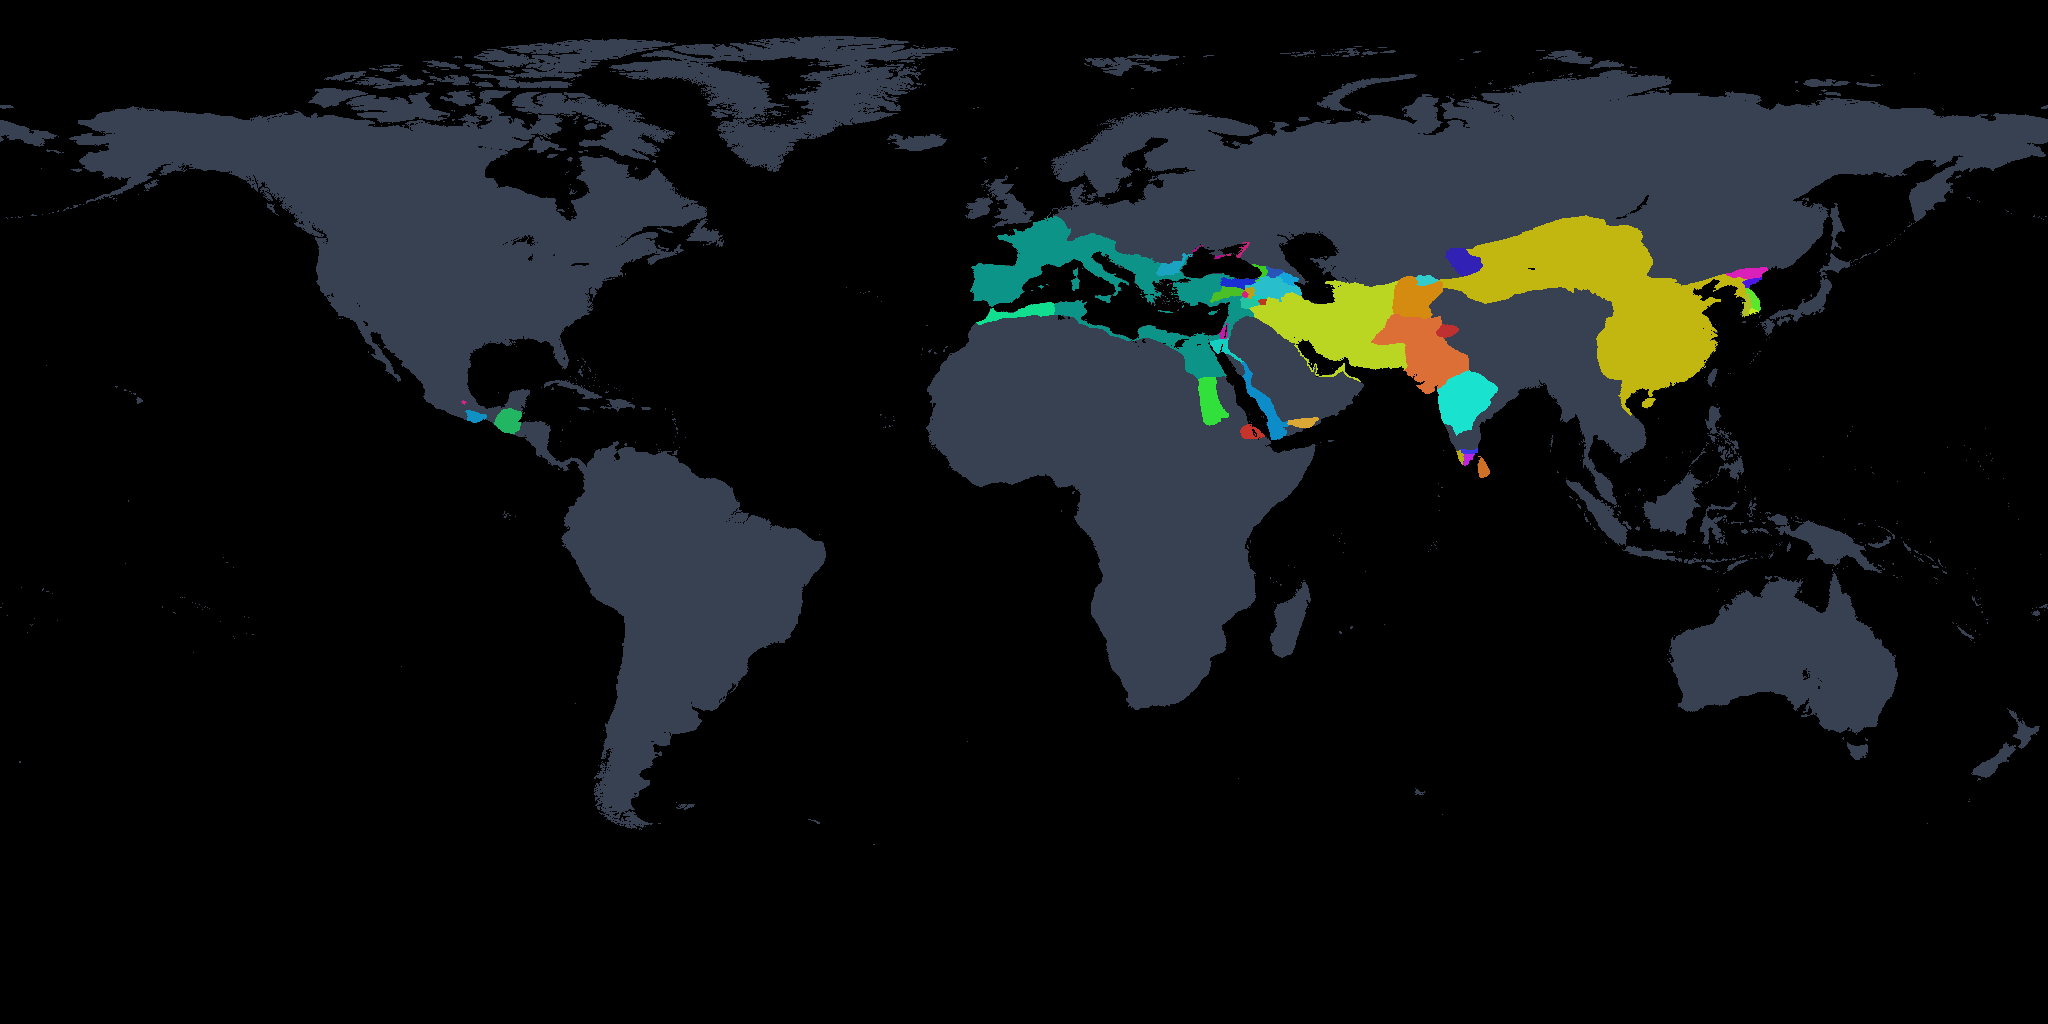
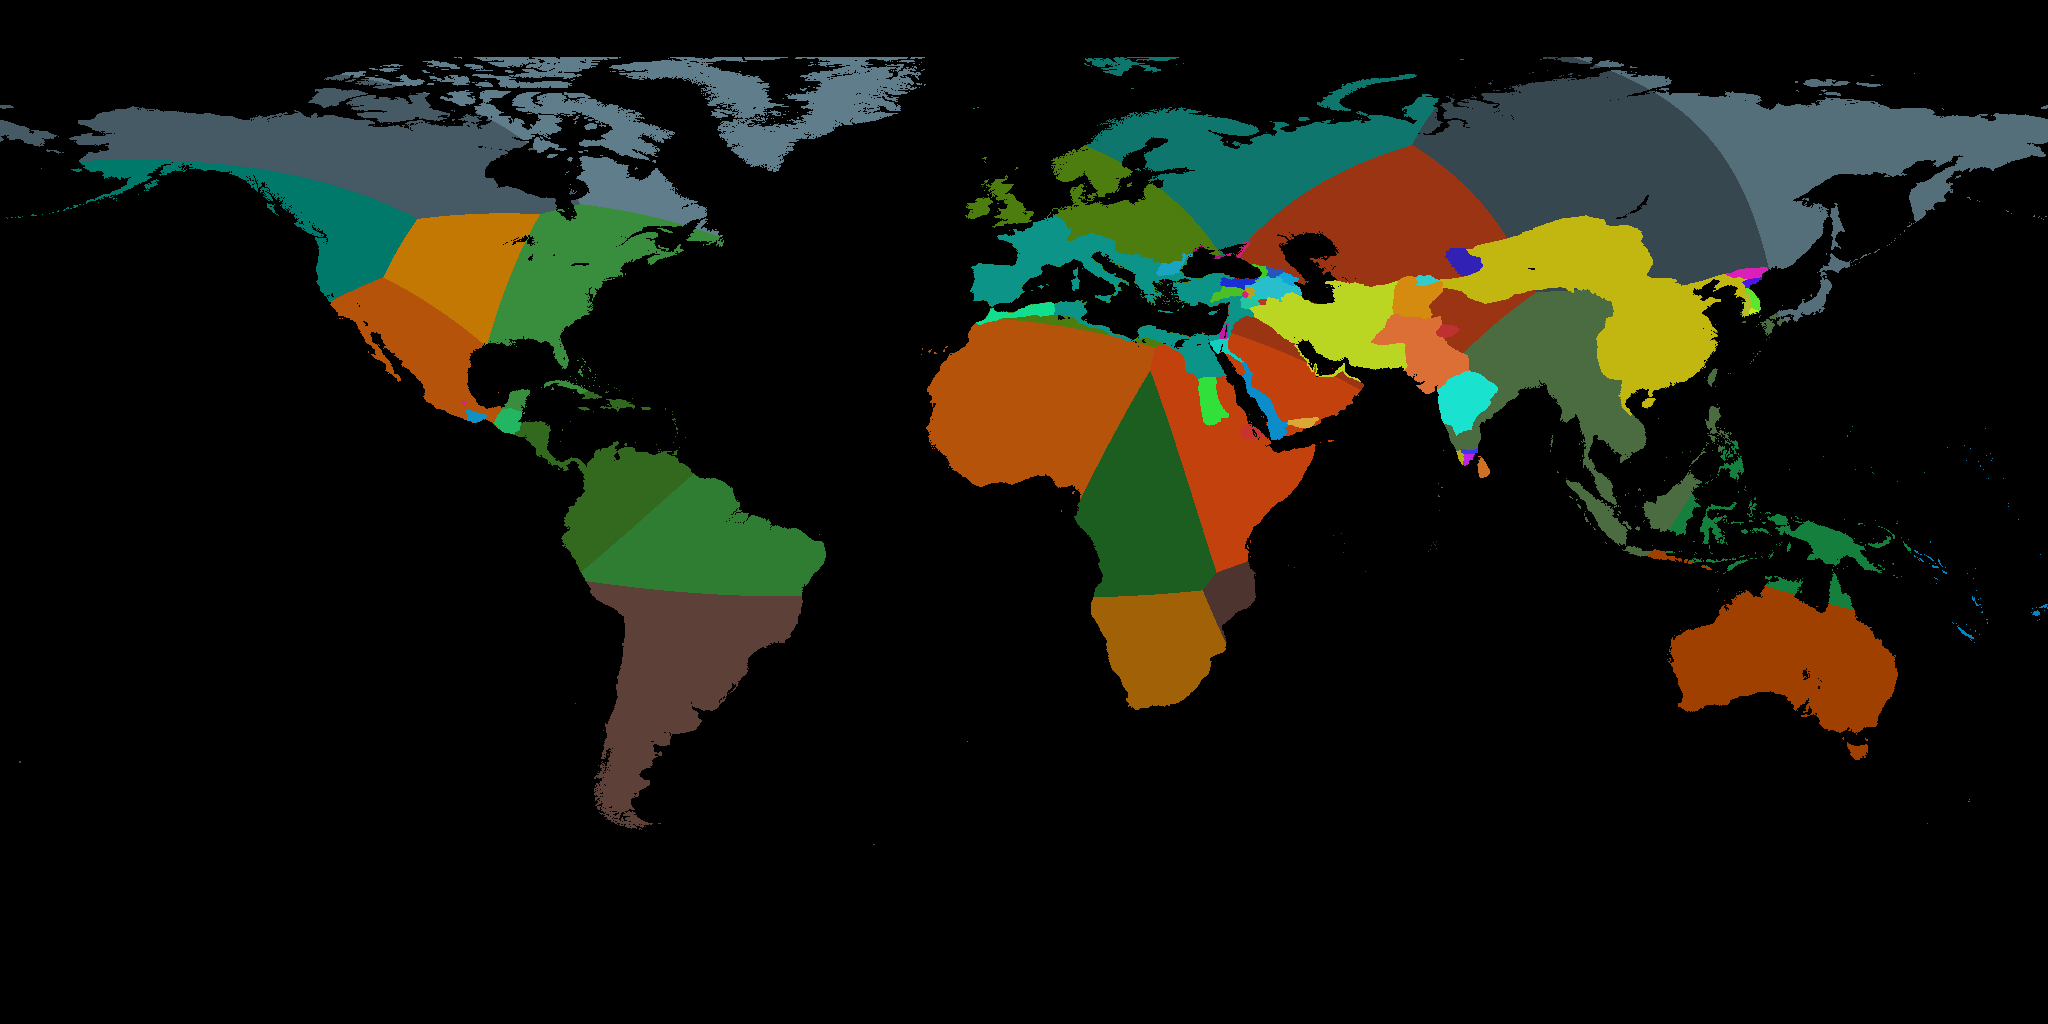
feat(cartography): authentic tribal domain sovereignty, conditional polar masking, and updated Year 0 cultural tensors

diff --git a/src/main/java/org/ether/society/data/CliopatriaPolityVectorReader.java b/src/main/java/org/ether/society/data/CliopatriaPolityVectorReader.java
@@ -77,7 +77,7 @@ public class CliopatriaPolityVectorReader {
         }
         g.dispose();
 
-        // Apply elevation coastline mask and assign neutral slate-gray to stateless/unclaimed land
+        // Apply elevation coastline mask and assign authentic regional tribal domains to stateless/unclaimed land
         if (elevationMask != null) {
             for (int y = 0; y < height; y++) {
                 double lat = 90.0 - (y + 0.5) / height * 180.0;
@@ -86,12 +86,18 @@ public class CliopatriaPolityVectorReader {
                     int mx = Math.clamp(x * elevationMask.getWidth() / width, 0, elevationMask.getWidth() - 1);
                     int my = Math.clamp(y * elevationMask.getHeight() / height, 0, elevationMask.getHeight() - 1);
                     int land = elevationMask.getRaster().getSample(mx, my, 0);
-                    if (land == 0 || lat < -60.0) {
-                        // Ocean or uninhabited Antarctic ice sheet
+                    if (land == 0 || (lat < -60.0 && targetYear < 1900L)) {
+                        // Ocean or uninhabited prehistoric Antarctic ice sheet
                         img.setRGB(x, y, 0x000000);
                     } else if (img.getRGB(x, y) == 0xFF000000 || img.getRGB(x, y) == 0x000000) {
-                        // Unclaimed / stateless territorial frontier -> clean neutral slate-gray
-                        img.setRGB(x, y, 0x374151);
+                        double occWeight = HistoricalMapGenerator.getHomininOccupancyWeight(lon, lat, targetYear);
+                        if (occWeight <= 0.001 && targetYear < 1900L) {
+                            img.setRGB(x, y, 0x000000);
+                        } else {
+                            // Unclaimed / stateless inhabited frontier -> assign authentic regional tribal basin color
+                            int tribalColor = getTribalDomainColor(lon, lat, targetYear);
+                            img.setRGB(x, y, tribalColor);
+                        }
                     }
                 }
             }
@@ -100,6 +106,62 @@ public class CliopatriaPolityVectorReader {
         logger.info("Successfully rasterized {} Seshat ClioPatria authentic vector polities for year {} ({}x{}).",
                 polities.size(), targetYear, width, height);
         return img;
+    }
+
+    /**
+     * Determines the authentic regional tribal / clan domain color for stateless inhabited lands.
+     */
+    public static int getTribalDomainColor(double lon, double lat, long year) {
+        if (lat < -60.0) {
+            return 0x0284C7; // Antarctic Treaty / International Scientific Research Domain (#0284C7 Sky Blue)
+        }
+
+        record TribalDomain(double lon, double lat, int color) {}
+        TribalDomain[] domains = {
+            // Americas
+            new TribalDomain(-60.0, -3.0, 0x2E7D32),    // Amazonian Indigenous Nations (#2E7D32 Forest Green)
+            new TribalDomain(-62.0, -25.0, 0x5D4037),   // Gran Chaco & Pampas (#5D4037 Earth Brown)
+            new TribalDomain(-68.0, 6.0, 0x33691E),     // Orinoco & Caribbean Tribes (#33691E Olive Green)
+            new TribalDomain(-82.0, 38.0, 0x388E3C),    // North American Eastern Woodlands (#388E3C Woodland Green)
+            new TribalDomain(-100.0, 42.0, 0xC27803),   // North American Great Plains (#C27803 Prairie Amber)
+            new TribalDomain(-122.0, 48.0, 0x00796B),   // Pacific Northwest & Salish (#00796B Coastal Teal)
+            new TribalDomain(-110.0, 32.0, 0xB45309),   // Southwest / Aridoamerica (#B45309 Desert Bronze)
+            new TribalDomain(-105.0, 62.0, 0x455A64),   // Subarctic Dene & Athabaskan (#455A64 Taiga Slate)
+            new TribalDomain(-70.0, 70.0, 0x607D8B),    // Arctic Inuit / Thule Domain (#607D8B Arctic Slate)
+
+            // Africa
+            new TribalDomain(0.0, 10.0, 0xB45309),      // West African Savanna / Voltaic (#B45309 Savanna Ochre)
+            new TribalDomain(22.0, -1.0, 0x1B5E20),     // Congo Equatorial Forest Clans (#1B5E20 Jungle Dark Green)
+            new TribalDomain(38.0, 4.0, 0xC2410C),      // East African Pastoralists (#C2410C Terracotta)
+            new TribalDomain(24.0, -28.0, 0xA16207),    // Southern African Khoisan / San (#A16207 Kalahari Ochre)
+            new TribalDomain(47.0, -19.0, 0x4E342E),    // Malagasy Indigenous Domain (#4E342E Malagasy Brown)
+
+            // Eurasia & Siberia
+            new TribalDomain(10.0, 56.0, 0x4D7C0F),     // Northern European Germanic/Celtic Forest Clans (#4D7C0F Moss Green)
+            new TribalDomain(30.0, 64.0, 0x0F766E),     // Boreal Finno-Ugric & Samoyed (#0F766E Pine Teal)
+            new TribalDomain(65.0, 48.0, 0x9A3412),     // Eurasian Steppe Nomads (#9A3412 Steppe Rust)
+            new TribalDomain(100.0, 58.0, 0x37474F),    // Siberian Taiga & Evenki (#37474F Siberian Charcoal)
+            new TribalDomain(150.0, 65.0, 0x546E7A),    // Chukchi & Koryak Paleo-Siberian (#546E7A Tundra Blue-Gray)
+            new TribalDomain(100.0, 20.0, 0x4B6B40),    // Southeast Asian Zomia Highlands (#4B6B40 Highland Olive)
+
+            // Oceania & Australasia
+            new TribalDomain(134.0, -25.0, 0xA04000),   // Australian Aboriginal Nations (#A04000 Red Ochre)
+            new TribalDomain(140.0, -5.0, 0x15803D),    // Papuan Highland Clans (#15803D Papuan Emerald)
+            new TribalDomain(170.0, -15.0, 0x0284C7)    // Polynesian Oceanic Domain (#0284C7 Pacific Cyan)
+        };
+
+        double minDistSq = Double.MAX_VALUE;
+        int bestColor = 0x4B5563;
+        for (TribalDomain td : domains) {
+            double dLat = lat - td.lat;
+            double dLon = (lon - td.lon) * Math.cos(Math.toRadians((lat + td.lat) * 0.5));
+            double d2 = dLat * dLat + dLon * dLon;
+            if (d2 < minDistSq) {
+                minDistSq = d2;
+                bestColor = td.color;
+            }
+        }
+        return bestColor;
     }
 
     /**

diff --git a/src/main/java/org/ether/society/data/HistoricalMapGenerator.java b/src/main/java/org/ether/society/data/HistoricalMapGenerator.java
@@ -2047,8 +2047,8 @@ public class HistoricalMapGenerator {
                 mx = Math.clamp(mx, 0, (mask != null ? mask.getWidth() : w) - 1);
                 my = Math.clamp(my, 0, (mask != null ? mask.getHeight() : h) - 1);
                 int land = (mask != null) ? mask.getRaster().getSample(mx, my, 0) : 255;
-                if (land == 0 || lat < -60.0) {
-                    // Ocean pixel or uninhabited Antarctic ice cap -> strictly pure black
+                if (land == 0) {
+                    // Ocean pixel -> strictly pure black
                     out.setRGB(x, y, 0x000000);
                 } else {
                     out.setRGB(x, y, src.getRGB(x, y));
@@ -2480,20 +2480,27 @@ public class HistoricalMapGenerator {
         }
 
         // Orographic cost-distance propagation with finite sovereign reach limit (38.0)
-        // Land outside state logistical projection capacity remains neutral slate-gray #374151
         List<OrographicGlottologPropagator.CulturalSeed> sovSeeds = new ArrayList<>();
         for (double[] ec : empireCores) {
             sovSeeds.add(new OrographicGlottologPropagator.CulturalSeed(ec[0], ec[1], (int) ec[2], ec[3] / 18.0, "Polity"));
         }
         BufferedImage sovImg = OrographicGlottologPropagator.propagateCulturalSeeds(sovSeeds, WIDTH, HEIGHT, mask, 38.0f);
-        // Apply hominin occupancy: unpopulated land or Antarctica -> black
+        // Apply hominin occupancy and assign authentic regional tribal domains outside imperial reach
         for (int y = 0; y < HEIGHT; y++) {
             double lat = 90.0 - (y + 0.5) / HEIGHT * 180.0;
             for (int x = 0; x < WIDTH; x++) {
                 double lon = -180.0 + (x + 0.5) / WIDTH * 360.0;
                 double occWeight = getHomininOccupancyWeight(lon, lat, year);
-                if (lat < -60.0 || occWeight <= 0.001) {
+                if (lat < -60.0 && year < 1900L) {
                     sovImg.setRGB(x, y, 0x000000);
+                } else if (occWeight <= 0.001 && year < 1900L) {
+                    sovImg.setRGB(x, y, 0x000000);
+                } else {
+                    int currentRgb = sovImg.getRGB(x, y) & 0xFFFFFF;
+                    if (currentRgb == 0x374151 || currentRgb == 0x000000) {
+                        int tribalColor = CliopatriaPolityVectorReader.getTribalDomainColor(lon, lat, year);
+                        sovImg.setRGB(x, y, tribalColor);
+                    }
                 }
             }
         }

diff --git a/src/test/java/org/ether/society/data/InspectMapsTest.java b/src/test/java/org/ether/society/data/InspectMapsTest.java
@@ -249,7 +249,12 @@ public class InspectMapsTest {
             new Loc("Alexandria (Roman Egypt)", 29.9, 31.2),
             new Loc("Ctesiphon (Parthian Empire)", 44.6, 33.1),
             new Loc("Taxila (Kushan Empire)", 72.8, 33.8),
-            new Loc("Amazon (Stateless Frontier)", -60.0, -3.0),
+            new Loc("Amazon Basin (Tribal)", -60.0, -3.0),
+            new Loc("Congo Basin (Tribal)", 22.0, -1.0),
+            new Loc("Siberian Taiga (Tribal)", 100.0, 58.0),
+            new Loc("North America Plains (Tribal)", -100.0, 42.0),
+            new Loc("Australian Outback (Tribal)", 134.0, -25.0),
+            new Loc("Germania Forest (Tribal)", 10.0, 52.0),
             new Loc("Antarctica East (Uninhabited)", 0.0, -75.0),
             new Loc("Antarctica West (Uninhabited)", -100.0, -80.0)
         };
